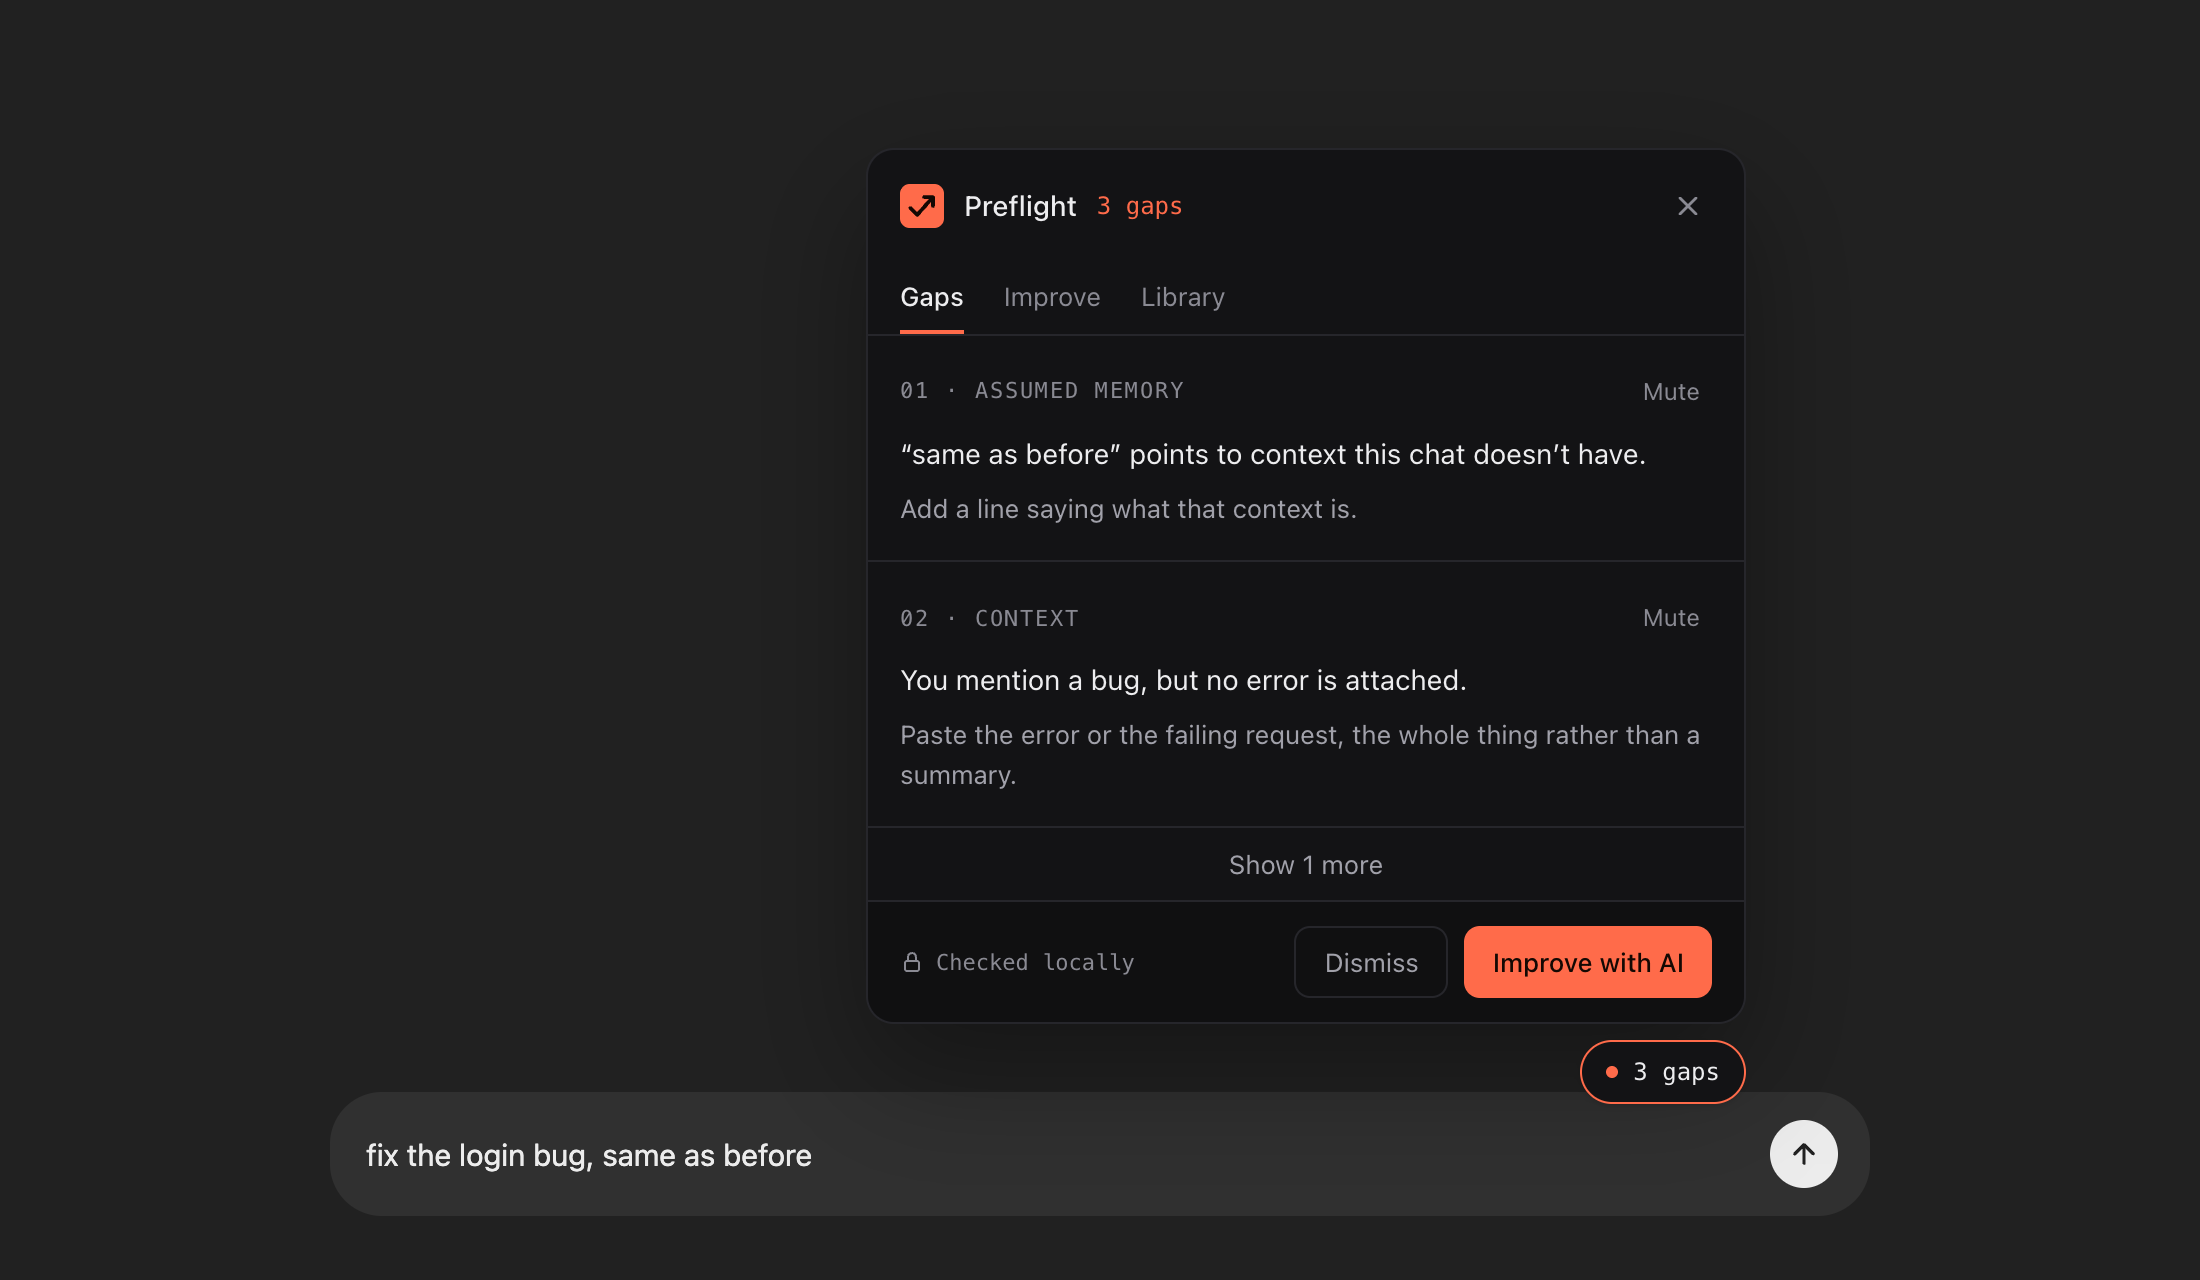
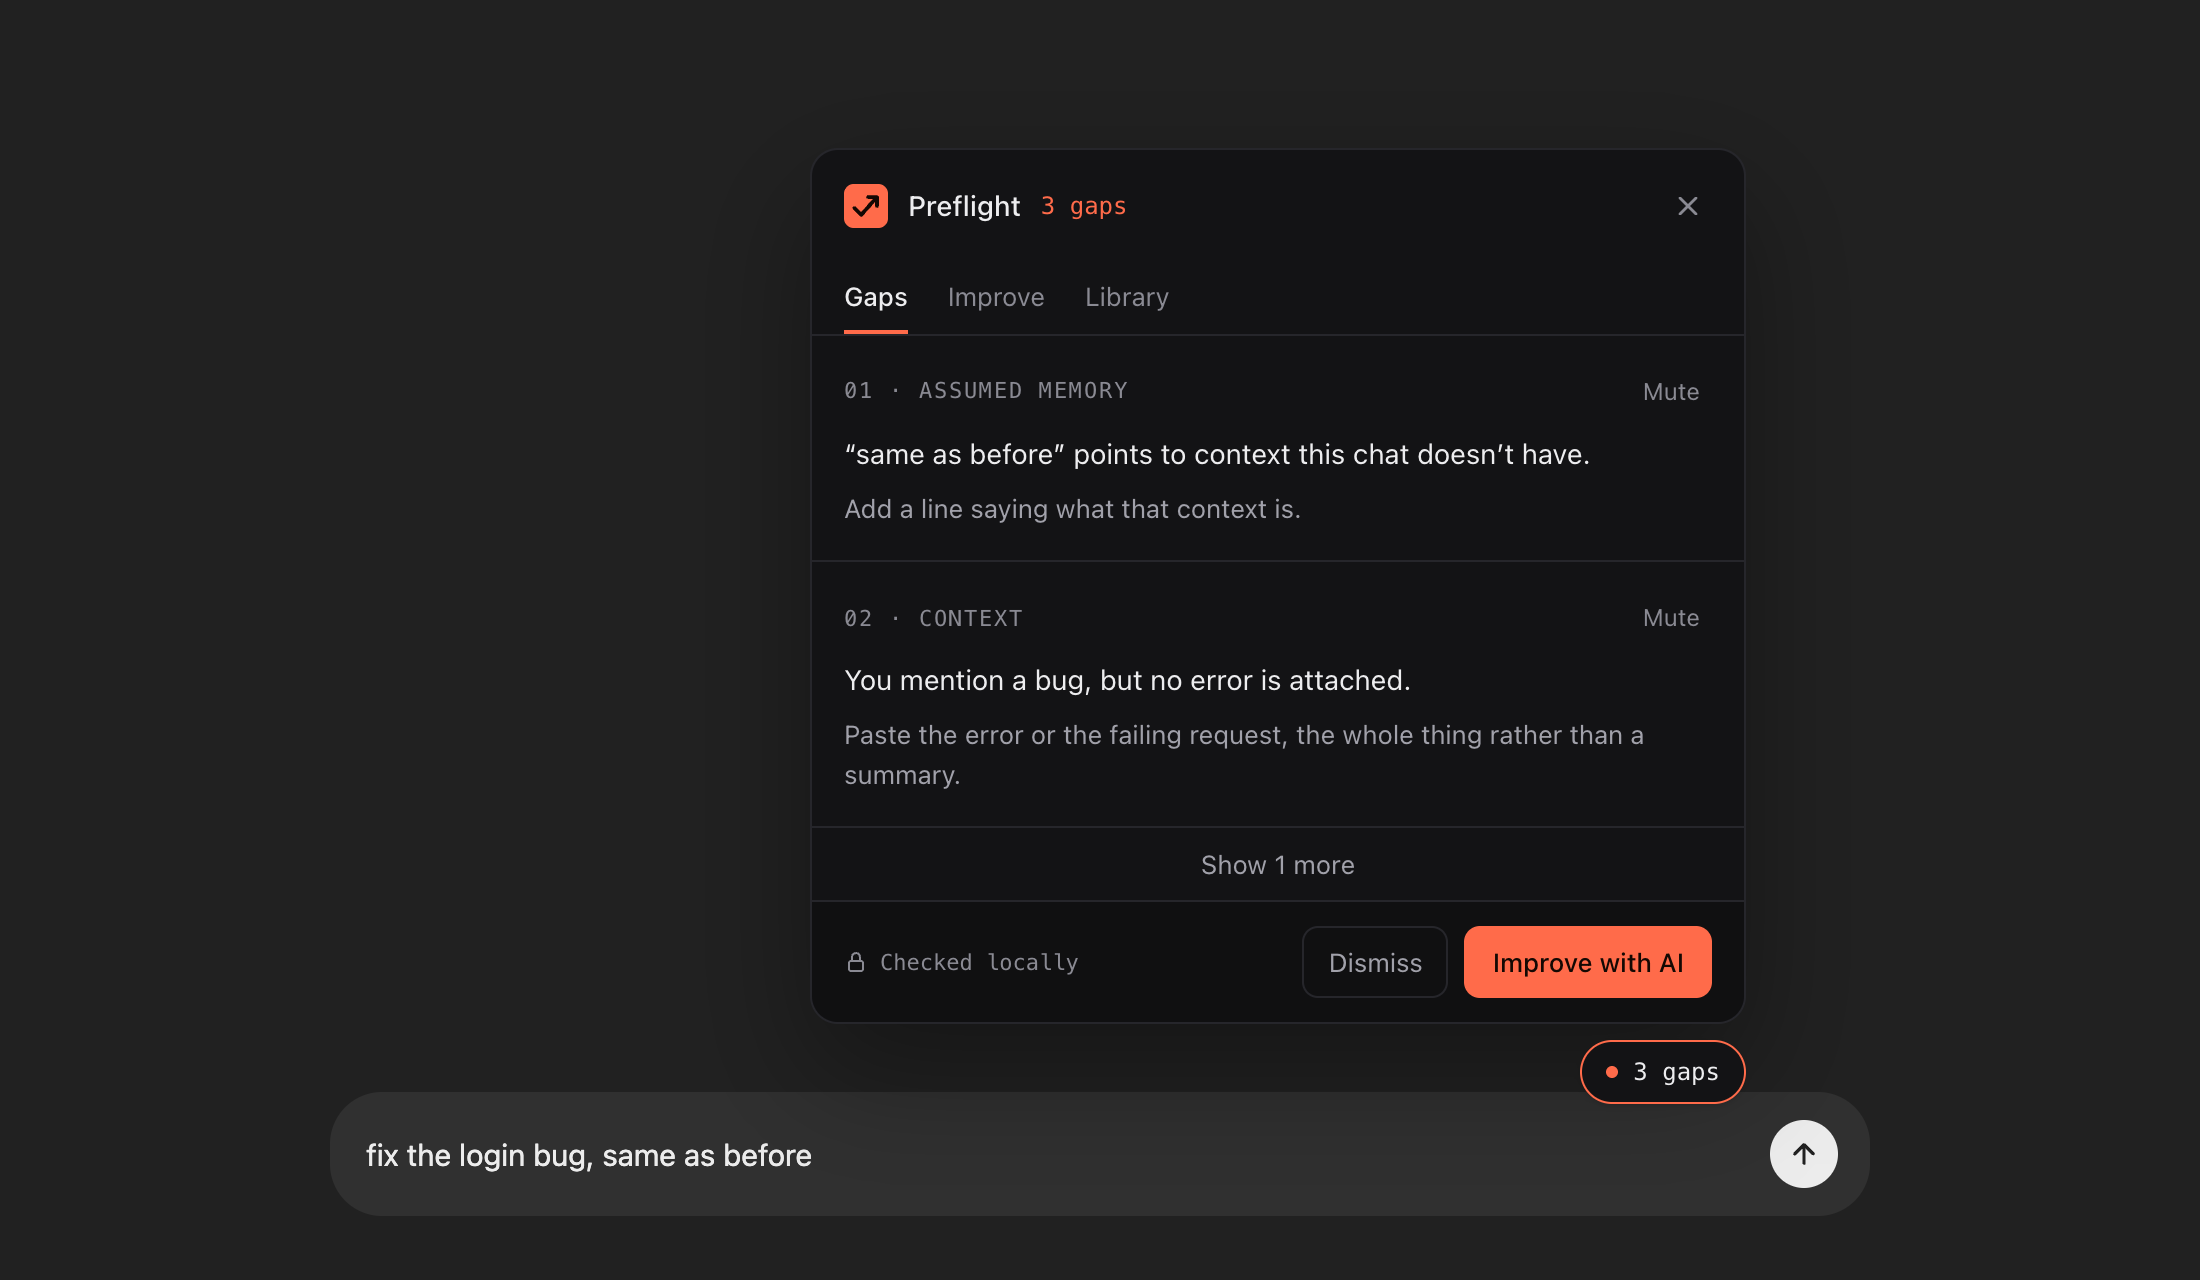
Prepare the store listings, and give the panel's footer room
store/ holds what Firefox Add-ons and Edge Add-ons ask for: the
listing text, permission justifications, the data-collection note,
reviewer notes and four screenshots at exactly 1280×800, generated
from the built extension by e2e/store.spec.ts (skipped unless STORE=1).
PRIVACY.md is the policy both stores link to.

The store screenshot showed what no test did: since the Save button,
the Improve footer was too narrow, so "Apply to chat" wrapped onto two
lines and the model name was clipped. The buttons now never wrap, the
panel is a little wider, and the footer shows the model alone.

diff --git a/apps/preflight/e2e/store.spec.ts b/apps/preflight/e2e/store.spec.ts
@@ -1,0 +1,64 @@
+import path from 'node:path';
+import { test } from './fixtures';
+
+// The store screenshots: exactly 1280×800, which both Firefox Add-ons and
+// Edge Add-ons accept. Run with:
+//   STORE=1 pnpm --filter @askwell/preflight exec playwright test e2e/store.spec.ts
+
+test.skip(!process.env.STORE, 'Only when regenerating the store screenshots (STORE=1).');
+
+const out = (name: string) => path.resolve(import.meta.dirname, '../../../store/screenshots', name);
+
+test('store screenshots', async ({ context, extensionId, site }) => {
+  test.setTimeout(120_000);
+  await context.route('https://api.anthropic.com/**', (route) =>
+    route.request().url().includes('/v1/models')
+      ? route.fulfill({ contentType: 'application/json', body: JSON.stringify({ data: [{ id: 'claude-opus-5-5', type: 'model', display_name: 'Claude Opus 5.5', created_at: '2026-01-01T00:00:00Z' }], has_more: false }) })
+      : route.fulfill({
+          contentType: 'application/json',
+          body: JSON.stringify({
+            id: 'msg', type: 'message', role: 'assistant', model: 'claude-opus-5-5', stop_reason: 'end_turn', stop_sequence: null,
+            usage: { input_tokens: 1, output_tokens: 1 },
+            content: [{ type: 'text', text: JSON.stringify({
+              rewrite: 'Fix the login bug in my Next.js app: valid credentials return 401 from /api/auth/login. Error: [paste the error here]. Expected: redirect to /dashboard. Reply with a patch only.',
+              changes: [
+                { kind: 'context', added: ' in my Next.js app: valid credentials return 401 from /api/auth/login.', reason: 'Names where the bug happens.' },
+                { kind: 'context', added: 'Error: [paste the error here].', reason: 'Leaves a slot for the actual failure.' },
+                { kind: 'goal', added: 'Expected: redirect to /dashboard.', reason: 'Says what working looks like.' },
+                { kind: 'output', added: 'Reply with a patch only.', reason: 'Asks for a patch instead of an essay.' },
+              ],
+            }) }],
+          }),
+        }),
+  );
+
+  const settings = await context.newPage();
+  await settings.emulateMedia({ colorScheme: 'dark' });
+  await settings.setViewportSize({ width: 1280, height: 800 });
+  await settings.goto(`chrome-extension://${extensionId}/options.html`);
+  await settings.getByLabel('Anthropic API key').fill('sk-ant-store-example');
+  await settings.getByRole('button', { name: 'Test and save' }).click();
+  await settings.getByText('answers this key').waitFor();
+  await settings.screenshot({ path: out('4-settings.png') });
+
+  const page = await site('https://chatgpt.com/');
+  await page.setViewportSize({ width: 1280, height: 800 });
+  await page.locator('#prompt-textarea').click();
+  await page.keyboard.type('fix the login bug, same as before');
+  await page.getByRole('button', { name: /^Preflight: \d gaps/ }).click();
+  await page.waitForTimeout(300);
+  await page.screenshot({ path: out('1-gaps.png') });
+
+  await page.getByRole('button', { name: 'Improve with AI' }).click();
+  await page.getByRole('button', { name: 'Apply to chat' }).waitFor({ state: 'visible' });
+  await page.waitForTimeout(400);
+  await page.screenshot({ path: out('2-improve.png') });
+
+  const chat = await site('https://chatgpt.com/c/errors');
+  await chat.setViewportSize({ width: 1280, height: 800 });
+  await chat.locator('#prompt-textarea').click();
+  await chat.keyboard.type('another one: 500 on /api/session/refresh');
+  await chat.getByText('Third error in a row.').waitFor();
+  await chat.waitForTimeout(300);
+  await chat.screenshot({ path: out('3-nudge.png') });
+});

diff --git a/apps/preflight/components/coach/Panel.tsx b/apps/preflight/components/coach/Panel.tsx
@@ -42,8 +42,9 @@ interface Props {
   onApply: (text: string) => void;
 }
 
-const buttonGhost = 'h-9 cursor-pointer rounded-lg border border-edge px-3.5 text-[13px] text-muted hover:bg-raised';
-const buttonPrimary = 'h-9 cursor-pointer rounded-lg bg-accent px-3.5 text-[13px] font-medium text-on-accent disabled:opacity-50';
+const buttonGhost = 'h-9 shrink-0 cursor-pointer whitespace-nowrap rounded-lg border border-edge px-3 text-[13px] text-muted hover:bg-raised';
+const buttonPrimary =
+  'h-9 shrink-0 cursor-pointer whitespace-nowrap rounded-lg bg-accent px-3.5 text-[13px] font-medium text-on-accent disabled:opacity-50';
 
 export function Panel({ maxHeight, draft, gaps, onClose, onMute, onApply }: Props) {
   const [tab, setTab] = useState<'gaps' | 'improve' | 'library'>('gaps');
@@ -80,7 +81,7 @@ export function Panel({ maxHeight, draft, gaps, onClose, onMute, onApply }: Prop
       aria-label="Preflight"
       onKeyDown={(event) => event.key === 'Escape' && onClose()}
       style={{ maxHeight }}
-      className="flex w-[440px] flex-col overflow-hidden rounded-[14px] border border-edge bg-surface shadow-[0_24px_60px_rgba(0,0,0,0.35)]"
+      className="flex w-[468px] max-w-[calc(100vw-24px)] flex-col overflow-hidden rounded-[14px] border border-edge bg-surface shadow-[0_24px_60px_rgba(0,0,0,0.35)]"
     >
       <header className="flex shrink-0 items-center justify-between py-3 pr-3 pl-4">
         <div className="flex items-center gap-2.5">
@@ -163,10 +164,12 @@ export function Panel({ maxHeight, draft, gaps, onClose, onMute, onApply }: Prop
         )}
       </div>
 
-      <footer className="flex shrink-0 items-center justify-between border-t border-edge bg-canvas/40 px-4 py-3">
-        <span className="flex items-center gap-1.5 font-mono text-[11px] text-subtle">
+      <footer className="flex shrink-0 items-center justify-between gap-3 border-t border-edge bg-canvas/40 px-4 py-3">
+        <span className="flex min-w-0 items-center gap-1.5 overflow-hidden font-mono text-[11px] text-subtle">
           {tab === 'improve' && improve.status === 'done' ? (
-            `${improve.model} · your key`
+            <span className="truncate" title={`Rewritten with ${improve.model}`}>
+              {improve.model}
+            </span>
           ) : (
             <>
               <svg width="12" height="12" viewBox="0 0 24 24" fill="none" stroke="currentColor" strokeWidth="2" strokeLinecap="round" strokeLinejoin="round" aria-hidden="true">
@@ -177,7 +180,7 @@ export function Panel({ maxHeight, draft, gaps, onClose, onMute, onApply }: Prop
             </>
           )}
         </span>
-        <div className="flex gap-2">
+        <div className="flex shrink-0 gap-2">
           {tab === 'gaps' && (
             <>
               <button type="button" onClick={onClose} className={buttonGhost}>

diff --git a/apps/preflight/e2e/improve.spec.ts b/apps/preflight/e2e/improve.spec.ts
@@ -66,7 +66,7 @@ test('a key is tested and saved, then Improve rewrites and applies', async ({ co
   const panel = page.getByRole('region', { name: 'Preflight' });
   await expect(panel.getByText('Expected: redirect to /dashboard.', { exact: true })).toBeVisible();
   await expect(panel.getByText('Gives the assistant the actual failure.')).toBeVisible();
-  await expect(panel.getByText('claude-opus-5-5 · your key')).toBeVisible();
+  await expect(panel.getByText('claude-opus-5-5', { exact: true })).toBeVisible();
 
   await panel.getByRole('button', { name: 'Apply to chat' }).click();
   await expect(page.locator('#prompt-textarea')).toHaveText(REWRITE);

diff --git a/store/LISTING.md b/store/LISTING.md
@@ -1,0 +1,69 @@
+# Store listing: Preflight
+
+Everything both stores ask for, ready to paste. Screenshots are in `store/screenshots/` at 1280×800.
+The package to upload is attached to each GitHub release: `preflight-<version>-firefox.zip` for
+Firefox, `preflight-<version>-chrome.zip` for Edge.
+
+## Name
+
+Preflight
+
+## Summary (short description, 132 characters or fewer)
+
+Checks your AI prompt before you send it: flags the missing error, goal or context in ChatGPT, Claude, Gemini and more.
+
+## Description
+
+Preflight reads the prompt you are typing into an AI chat and points out what is missing before you
+press Send: the error you meant to paste, what "working" should look like, the context the AI can't
+see. Most wasted AI answers come from a prompt that read as complete to the person who wrote it.
+
+- Gaps as you type: a small badge counts what is missing; click it for each gap and how to fix it.
+- Improve, with your own API key (Anthropic, OpenAI or Gemini): a rewrite that closes the gaps, shown as
+  a diff with the reason for every addition. You apply it; you always press Send.
+- Conversation coaching: notices errors sent one at a time, the same fix asked for again and again, and
+  a new chat that assumes the last one, and offers a template.
+- Your own rules, a prompt library, and a weekly view of how many gaps you catch.
+
+Works on ChatGPT, Claude, Gemini, Perplexity, Copilot, Grok, DeepSeek and Le Chat. The checks run in
+your browser with no account and no analytics; text is sent only when you click Improve, and only to
+the provider whose key you entered.
+
+Open source (MIT): https://github.com/shashwatgoyal-codes/askwell
+
+Preflight is not affiliated with, endorsed by or sponsored by OpenAI, Anthropic, Google, Microsoft,
+Perplexity, xAI, DeepSeek or Mistral.
+
+## Category
+
+Firefox: Other. Edge: Productivity.
+
+## Privacy policy URL
+
+https://github.com/shashwatgoyal-codes/askwell/blob/main/PRIVACY.md
+
+## Homepage / support URL
+
+https://github.com/shashwatgoyal-codes/askwell
+
+## Permission justifications
+
+| Permission | Why |
+|---|---|
+| `storage` | Keeps settings, the optional API key, the library and daily counts on the device. |
+| `activeTab` | Lets the popup see which site the current tab is on, to show its on/off switch. |
+| Host access to the supported chat sites | Reads the prompt being typed there and shows the badge beside it. |
+| Host access to api.anthropic.com, api.openai.com, generativelanguage.googleapis.com | Sends a prompt for Improve to the provider whose key the person entered, only when they click Improve. |
+
+## Data collection (Firefox)
+
+Declared in the manifest as `websiteContent`: when the person clicks Improve, the prompt they typed is
+sent to the AI provider they chose. Nothing else leaves the browser.
+
+## Notes for reviewers
+
+- The source is public and the build is reproducible: `pnpm install && pnpm zip` from the repository
+  root, with Node 22+ and pnpm 10. The sources zip is also attached to each release.
+- No remote code is loaded. The bundled provider SDKs are the official Anthropic, OpenAI and Google
+  libraries, used only from the background worker.
+- To test Improve without a key, the checks and badge work on their own; Improve needs any API key.

diff --git a/PRIVACY.md b/PRIVACY.md
@@ -1,0 +1,55 @@
+# Preflight privacy policy
+
+_Last updated: 10 October 2026_
+
+Preflight is a browser extension by Shashwat Goyal that checks prompts typed into AI chat sites. This
+policy says what it does with your data. The short version: it has no server, no account and no
+analytics, and it sends text only when you ask it to.
+
+## What Preflight reads
+
+- **The prompt you are typing** into a supported AI chat site (ChatGPT, Claude, Gemini, Perplexity,
+  Copilot, Grok, DeepSeek and Le Chat), to check it as you type.
+- **Your own earlier messages in the open chat**, on sites where Preflight can find them, to notice
+  habits such as sending errors one at a time.
+
+Both are read inside your browser and are not stored, except as described below.
+
+## What Preflight stores
+
+Everything is kept in the extension's local storage on your device, and nowhere else:
+
+- Your settings: sensitivity, which checks and sites are on, your own rules.
+- Your API key(s), if you add one for Improve, and the model you chose.
+- An admin token and its portal address, if you add one.
+- Prompts you choose to save to your library. Nothing is saved there unless you click Save.
+- Daily counts: how many prompts were checked and which kinds of gaps were found. Numbers only; the
+  text of your prompts is never stored.
+
+Clearing local data in Preflight's settings, or removing the extension, deletes all of it.
+
+## What Preflight sends, and to whom
+
+Nothing is sent anywhere unless you click **Improve**. Then:
+
+- With your own key, the prompt and the list of gaps found are sent to the AI provider whose key you
+  entered (Anthropic, OpenAI or Google), directly from your browser, under that provider's terms.
+- With an admin token, they are sent to the Askwell portal whose address you entered, which forwards
+  them to Anthropic on its owner's key. The portal keeps a count of uses per token per day and nothing
+  else about the request.
+
+Your API key is sent only to the provider it belongs to. Preflight never sends a message in a chat for
+you; it can fill the chat box, and you always press Send.
+
+## What Preflight does not do
+
+- No analytics, tracking, advertising or profiling.
+- No selling or sharing of data with anyone.
+- No reading of pages other than the supported AI chat sites.
+
+## Contact
+
+Questions about this policy: open an issue at https://github.com/shashwatgoyal-codes/askwell/issues.
+
+Preflight is not affiliated with, endorsed by or sponsored by OpenAI, Anthropic, Google, Microsoft,
+Perplexity, xAI, DeepSeek or Mistral.
